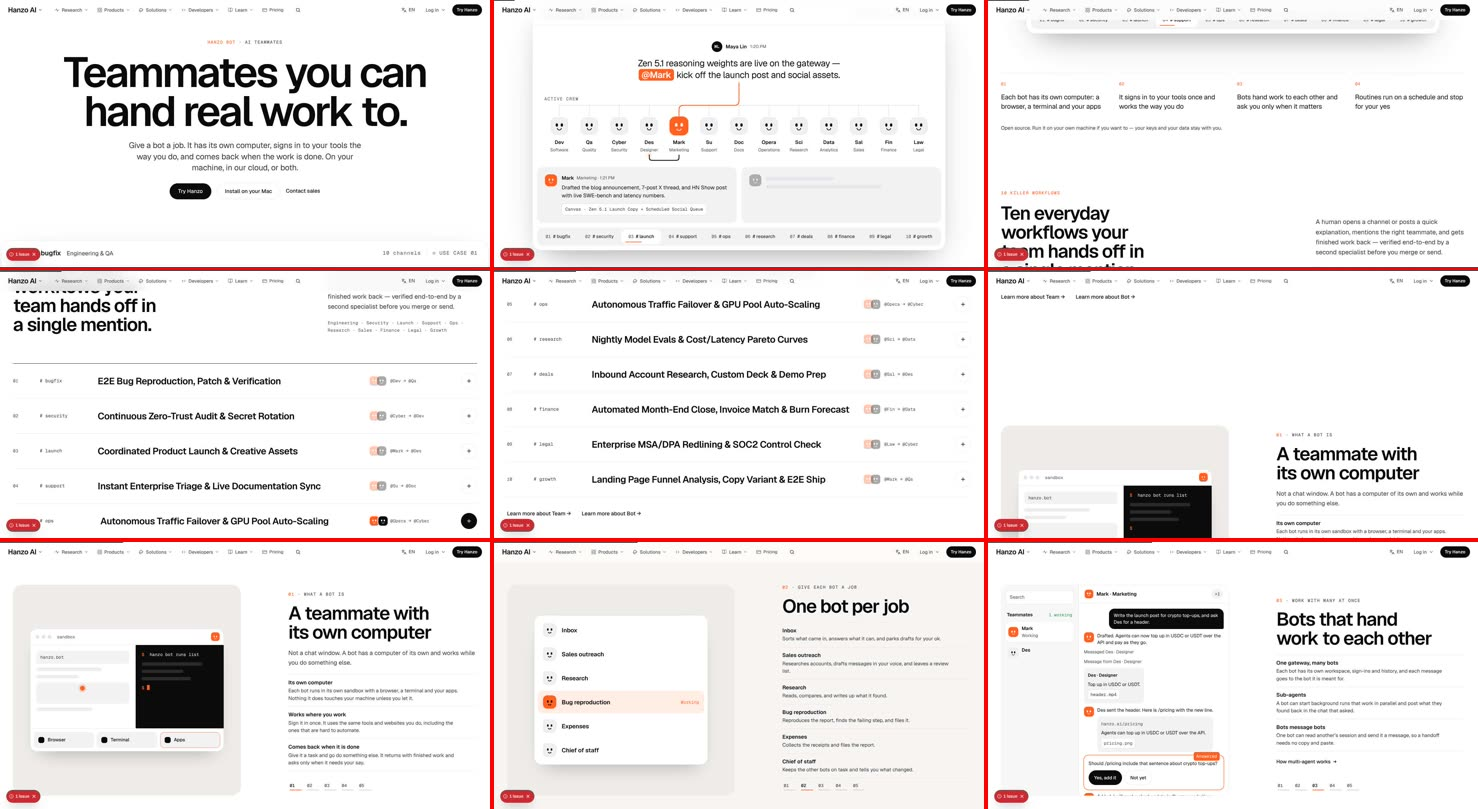
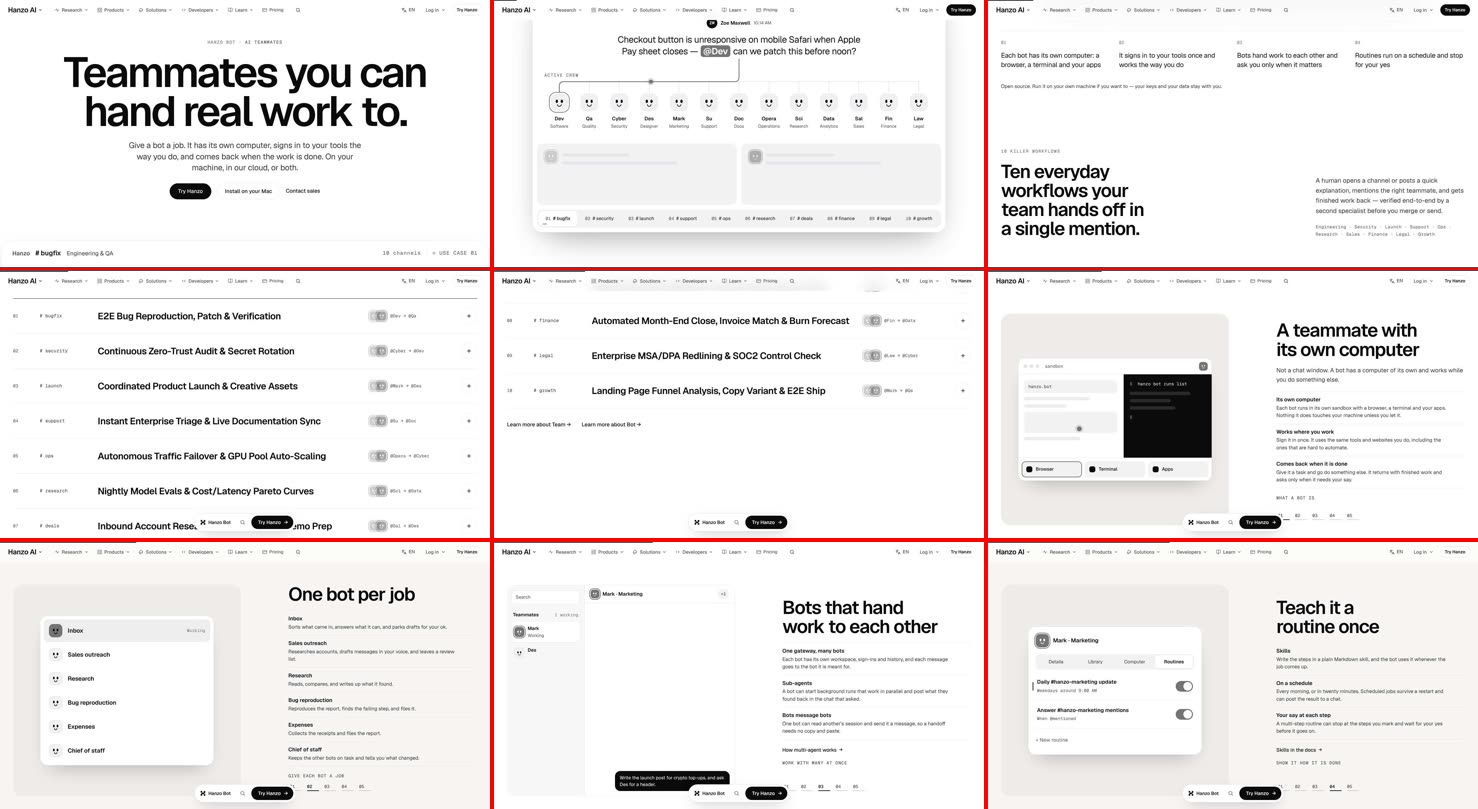
review: /bot 6/10 at 4b53974 (static first screen, floating ask, no card)
Claude-Session: https://claude.ai/code/session_01DqUybDEA5FZ4ZbAGVya4QA

diff --git a/docs/review/bot.md b/docs/review/bot.md
@@ -1,45 +1,52 @@
 # /bot — James-eye review
 
 Verdict: 6/10
-First complaint: "The first screen is centred text and three buttons. Where's the product? And it's orange again."
+First complaint: "The first screen is centred text and three buttons. Where's the product? And there's a pill bar floating over the text."
 
-Walked 7 Nov, page file at `a1dcdca` (`components/pages/Bot.jsx`, `Bot.css`, shared `v2/AppStage`, `AppScenes`), on the preview of main plus the Apps 1 branch. Filmed moving at 1470×801 and 375×812 (wheel and finger scroll, dwell on every screen, hover and press on desktop, taps on phone), plus a plain scroll pass to the footer at both widths, reduced motion and JS off. Stills: `review/bot/desktop-walk.jpg`, `review/bot/desktop-walk-2.jpg`, `review/bot/phone-walk.jpg`.
+Walked 7 Nov, page file at `4b53974` (`components/pages/Bot.jsx`, `Bot.css`, shared `v2/AppStage`, `AppScenes`), on the 14:43 preview of main plus the Apps branches, judged against `docs/MASTER.md` and `docs/JAMES.md`.
+- **This build:** a 9-second first-screen film at 1470×801 and 375×812 with no input, hover and press on the primary, a full scroll pass at both widths, reduced motion, JS off and phone tap targets.
+- **The earlier `a1dcdca` walk:** the full moving walk with hovers and taps; the layout is the same.
+
+Stills: `review/bot/desktop-walk.jpg`, `review/bot/desktop-walk-2.jpg`, `review/bot/phone-walk.jpg`, `review/bot/desktop-first-9s.jpg`.
 
 ## What works
 - The org chart under the hero is a real idea. A person @mentions a bot in a thread, a packet runs down the crew to that bot, and the reply fills in. It runs by itself through ten channels.
-- Five pinned chapters hold the text while a live product pane changes (sandbox, bot roster, thread with "Yes, add it", routine toggles, memory file). That is the Apple pattern.
-- "Message your bots where you already are" is a lovely type moment: one huge sentence of channel names, lit and dimmed.
-- The plan slider ("How many resident bots do you need?") is a good Beyond. The close "Meet your first bot" is a proper Band: one solid "Try Hanzo" and a text link.
-- Press scales .98, hovers answer, CLS 0 at both widths, no font swap. Parity: text 306/306, links 21/21. Reduced motion leaves 0 running animations.
+- Five pinned chapters hold the text while a live pane changes (sandbox, bot roster, thread with "Yes, add it", routine toggles, memory file).
+- "Message your bots where you already are" is one huge sentence of channel names, lit and dimmed: a lovely type moment. The plan slider is a good Beyond.
+- "Meet your first bot" is a proper close: one solid "Try Hanzo" and a text link. The header's ask is the same "Try Hanzo".
+- Monochrome now (taste.py passes). Press scales .98, hovers answer, CLS 0. Reduced motion leaves 0 running. Parity: text 306/306, links 21/21.
+
+## Card check
+- `docs/coverage/bot.md` does not exist, so the verdict is capped at 7. All 18 parts are missing a `Done here:` line.
 
 ## The 11 answers
-1. **Sells in 5 seconds, moves within 1 second?** No at 1470×801. The first screen is a centred kicker, a centred headline, a paragraph and three asks. After the cut-in, nothing on it moves. The org chart that is the hero object starts below the fold, with only its caption strip peeking.
-2. **One in, one out, or a document?** Mixed. The chapters and the channel sentence are scenes. But the page is 16,300px tall, about 20 screens: workflows list, chapters, 200 tools, channels, steps, install, paste, pricing, extras, FAQ, close, then a "Get Bot" related list and "Deploy to Cloud" after the close. That is the overload he complained about.
-3. **A real visual object in every section?** Mostly. But several panes are grey placeholder bars where real content should be: the second thread card in the hero stage, the memory file, the sandbox panel. They read as loading skeletons, not product.
-4. **One ask, sticky after the hero?** "Try Hanzo" is the page's ask and the header carries it at every scroll, so it is always on screen. But the hero offers three asks of near-equal weight ("Try Hanzo", "Install on your Mac", "Contact sales"), and a solid "Deploy to Cloud" appears after the closing Band.
-5. **Every hover and press answers, no jumps?** Yes on desktop. On phone, tapping a workflow opens its drawer and the page behind is locked until Close, which is correct. Text links are 19–21px tall, under the 44px target.
-6. **Overlaps, font swap, layout shift?** None seen, CLS 0. JS off: 158 of 219 text blocks stay invisible, so most of the page is blank without scripts.
-7. **Which reference, is its motion there?** Apple product page: yes in the chapters. chatgpt.com/business calm trust: no, it is too long and too busy for that.
-8. **Different from neighbours?** Partly. It shares the kicker-over-Display opening, the Stage, the pinned-chapter kit and the one dark room with /api, /cli, /desktop and /gen. The tangerine is close to /careers' and /affiliate's orange.
-9. **18 areas (PLAN-COMPONENTS)?** See below. No `docs/coverage/bot.md`.
+1. **Sells in 5 seconds, moves within 1 second?** No at 1470×801. The first screen is a centred label, a 126px centred headline, a paragraph and three asks. After the headline's cut-in, nothing on it moves. The org chart, the real object, starts below the fold.
+2. **One in, one out, or a document?** Mixed. The chapters and the channel sentence are scenes. But the page is about 20 screens: workflows, chapters, 200 tools, channels, steps, install, paste, pricing, extras, FAQ, close, then "Get Bot" and "Deploy to Cloud" after the close.
+3. **A real visual object in every section?** Mostly, but the hero thread's second card, the sandbox and the memory file are grey placeholder bars, not product.
+4. **One ask, in the sticky header?** The header carries "Try Hanzo", the page's ask. But the hero gives three asks of near-equal weight, a solid "Deploy to Cloud" sits after the closing Band, and a floating pill ("Hanzo Bot · search · Try Hanzo") rides over the workflow rows and the FAQ on desktop.
+5. **Every hover and press answers, no jumps?** Yes on desktop. Phone text links are 19–21px tall.
+6. **Overlaps, font swap, layout shift?** The floating pill overlaps content at 1470×801. No shift. JS off: 146 of 219 text blocks stay invisible.
+7. **Which reference, is its motion there?** Apple product page: yes in the chapters. chatgpt.com/business calm: no, too long and busy.
+8. **Different from neighbours?** Partly. The centred label, Display headline and stage opening repeats /desktop. Chapters, black room and "Paste and ship" repeat /api and /cli.
+9. **18 parts (MASTER §2)?** No card. See below.
 10. **Banned tells?** Yes:
-    - eyebrows over the h1 ("HANZO BOT · AI TEAMMATES") and over most headlines ("10 KILLER WORKFLOWS", "01 · WHAT A BOT IS", "PRICING", "FAQ"…);
-    - a tangerine UI accent on kickers, @mentions, bot faces, checks, toggles and `$` prompts;
-    - a green "1 working" status;
+    - labels directly above the h1 ("HANZO BOT · AI TEAMMATES") and above h2s ("10 KILLER WORKFLOWS", "PRICING", "FAQ"…);
+    - a floating pill bar over content;
     - a centred headline over three buttons, the stock SaaS opening.
 11. **Copy untouched?** Yes (parity clean).
 
-## Missing from the 18 areas
-- **2.3 First impression:** the hero object is not in the first screen at 1470×801. The page ends after its Band with more content ("Get Bot", "Deploy to Cloud").
-- **2.4 Conversion:** three hero asks. The extra solid after the close.
-- **2.6 Content presentation:** too long for one scroll. The 10 workflows and the FAQ could be one drawer each, as they already open.
-- **2.7 Visual system:** tangerine and green UI hues. Placeholder bars inside product panes.
-- **2.11 / 2.12:** 19–21px text-link targets; 158 text blocks hidden with JS off.
-- **2.18:** no `Persona:` / `Goal:` / `CTA:` lines, no `data-cta`.
+## Missing from the 18 parts
+- **Card:** no coverage card, and no `Persona:` / `Goal:` / `CTA:` / metric lines.
+- **Part 3 First impression:** the hero object is not in the first screen. Content continues after the Band.
+- **Part 4 Conversion:** three hero asks; an extra solid after the close; the floating pill.
+- **Part 6 Content:** too long for one scroll.
+- **Part 7 Visual system:** labels over headings; placeholder bars in product panes.
+- **Parts 11 / 12:** 19–21px phone targets; 146 text blocks hidden with JS off.
 
 ## Fixes (in order)
-1. **Put the org chart in the first screen.** Headline left at about 96px, the live crew and thread right (or under a shorter headline), so the packet runs above the fold at 1470×801 within the first second.
-2. **One ask in the hero.** Keep "Try Hanzo" solid. Make "Install on your Mac" and "Contact sales" text links. Move "Deploy to Cloud" and the "Get Bot" list above the closing Band, or into a drawer, so the page ends on "Meet your first bot".
-3. **Take the orange out.** @mentions, faces, checks, toggles and prompts go ink or white alpha steps; "1 working" gets a shape, not green. Delete every kicker over a headline.
-4. **Fill the panes with real content.** Replace the grey bars in the hero's second card, the sandbox and MEMORY.md with Hanzo's own example lines (the page already has them in the thread and skill text).
-5. **Shorten the walk.** Fold "Three steps" into the install room, and put "Need more than one resident bot?" under the plan slider. Let the FAQ open in one sheet. Aim for about 12 screens, not 20.
+1. **Put the org chart in the first screen.** Headline at rest size (about 52–64px, MASTER §3.1) on the left of an 8/5 split, the live crew and thread on the right, so the packet runs above the fold within the first second.
+2. **One ask.** Keep "Try Hanzo" solid. Make "Install on your Mac" and "Contact sales" text links. Turn off the floating desktop pill (the header already carries the ask). Move "Get Bot" and "Deploy to Cloud" above the FAQ so the page ends on "Meet your first bot".
+3. **Delete every label sitting directly above a heading.**
+4. **Fill the panes with real content.** Replace the grey bars with Hanzo's own example lines from the thread and skill text.
+5. **Shorten.** Fold "Three steps" into the install room, and put "Need more than one resident bot?" under the slider. Aim for about 12 screens.
+6. **Write `docs/coverage/bot.md`**: 18 parts, each with real evidence.
